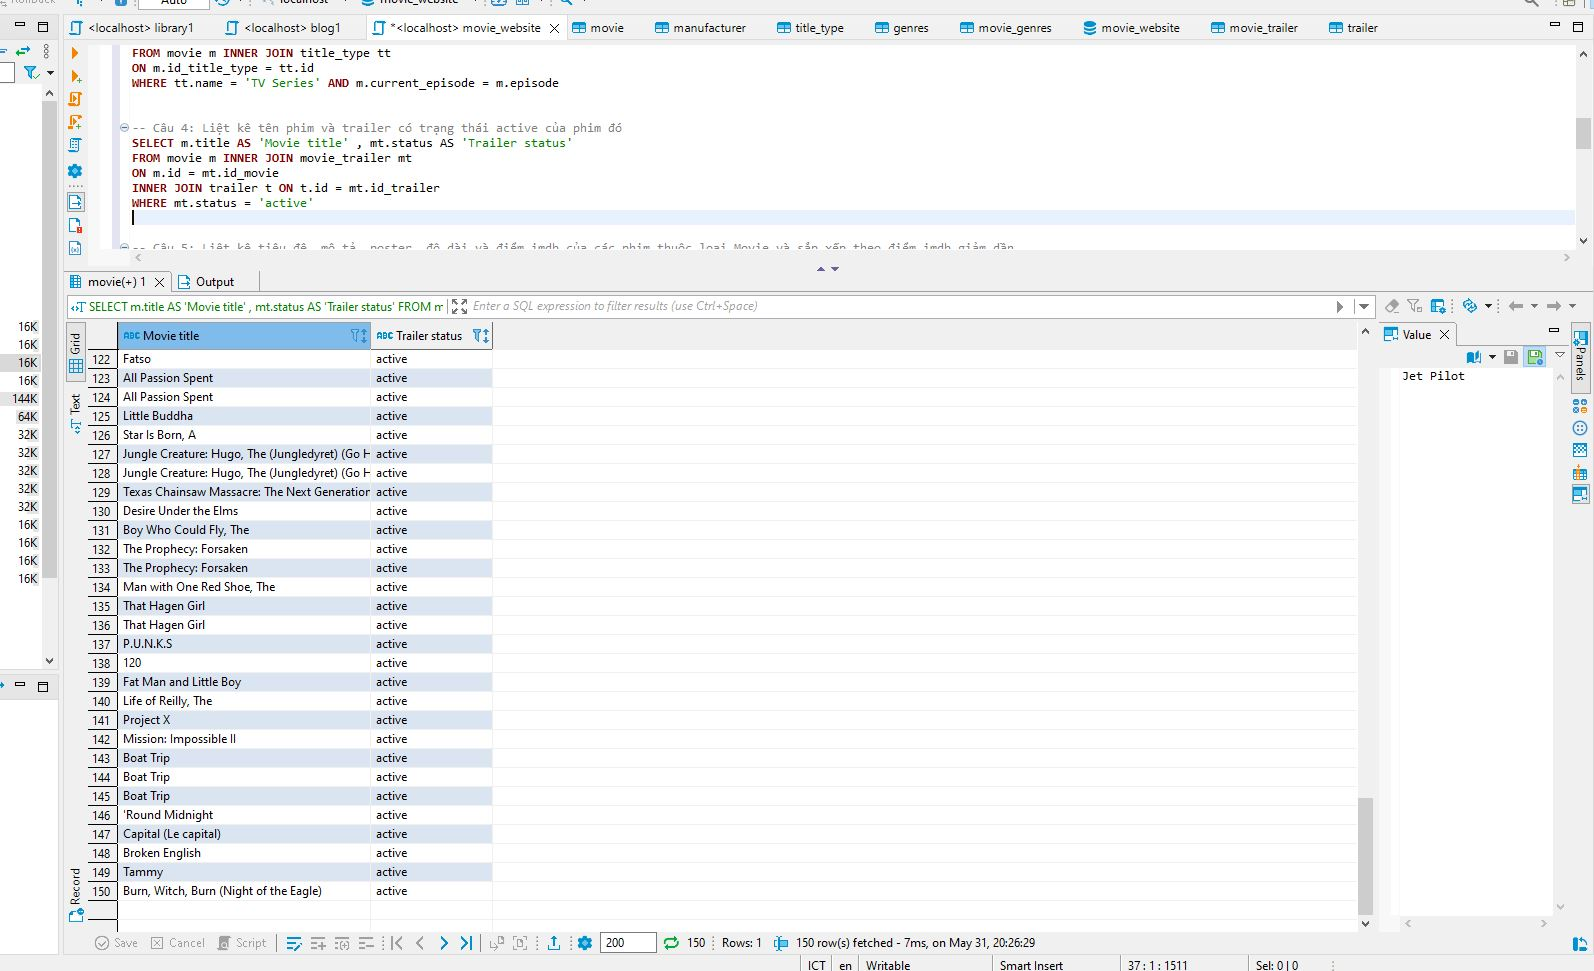
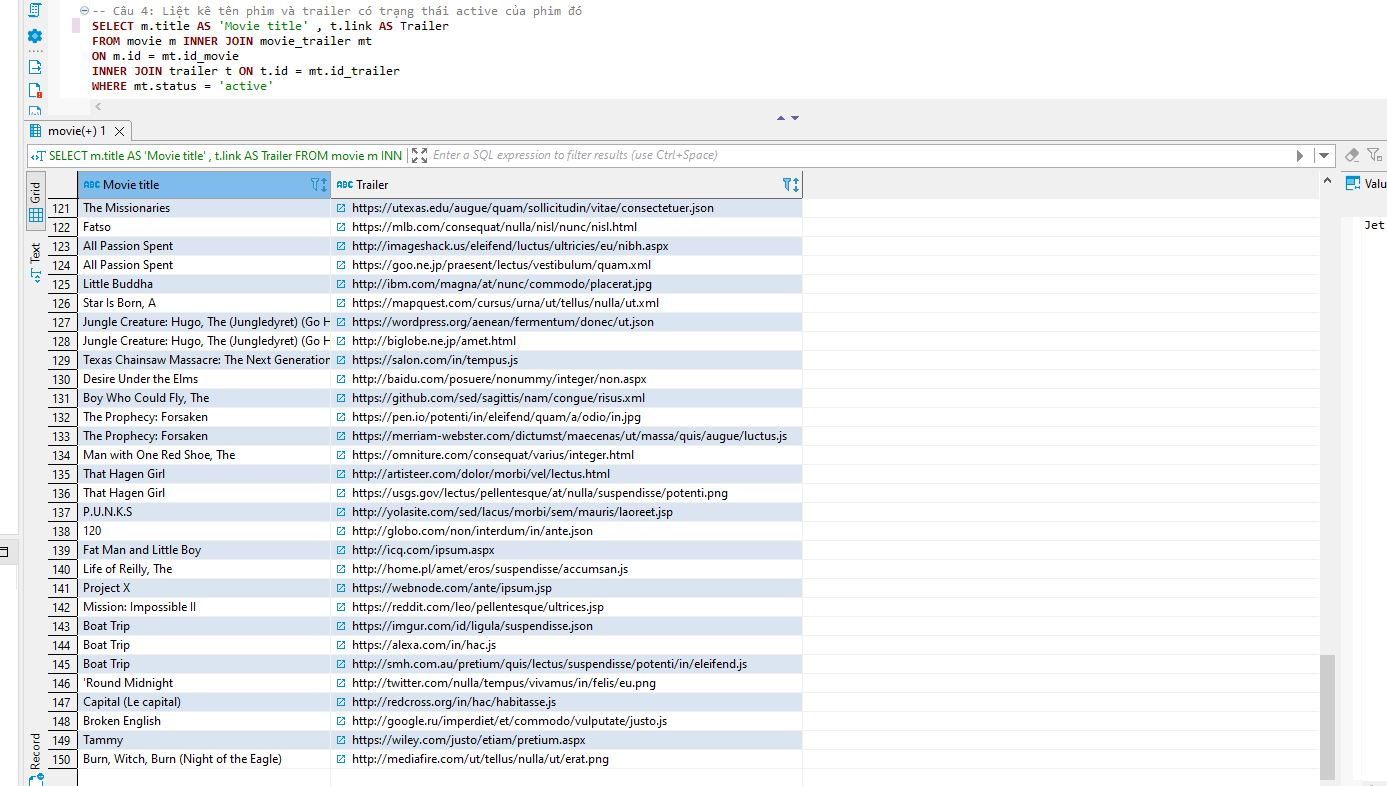
update

diff --git a/day08/day08.md b/day08/day08.md
@@ -43,7 +43,7 @@ WHERE tt.name = 'TV Series' AND m.current_episode = m.episode
 
 4. **Liệt kê tên phim và trailer có trạng thái active của phim đó**
 ```sql
-SELECT m.title AS 'Movie title' , mt.status AS 'Trailer status'
+SELECT m.title AS 'Movie title' , t.link AS Trailer
 FROM movie m INNER JOIN movie_trailer mt 
 ON m.id = mt.id_movie 
 INNER JOIN trailer t ON t.id = mt.id_trailer 
